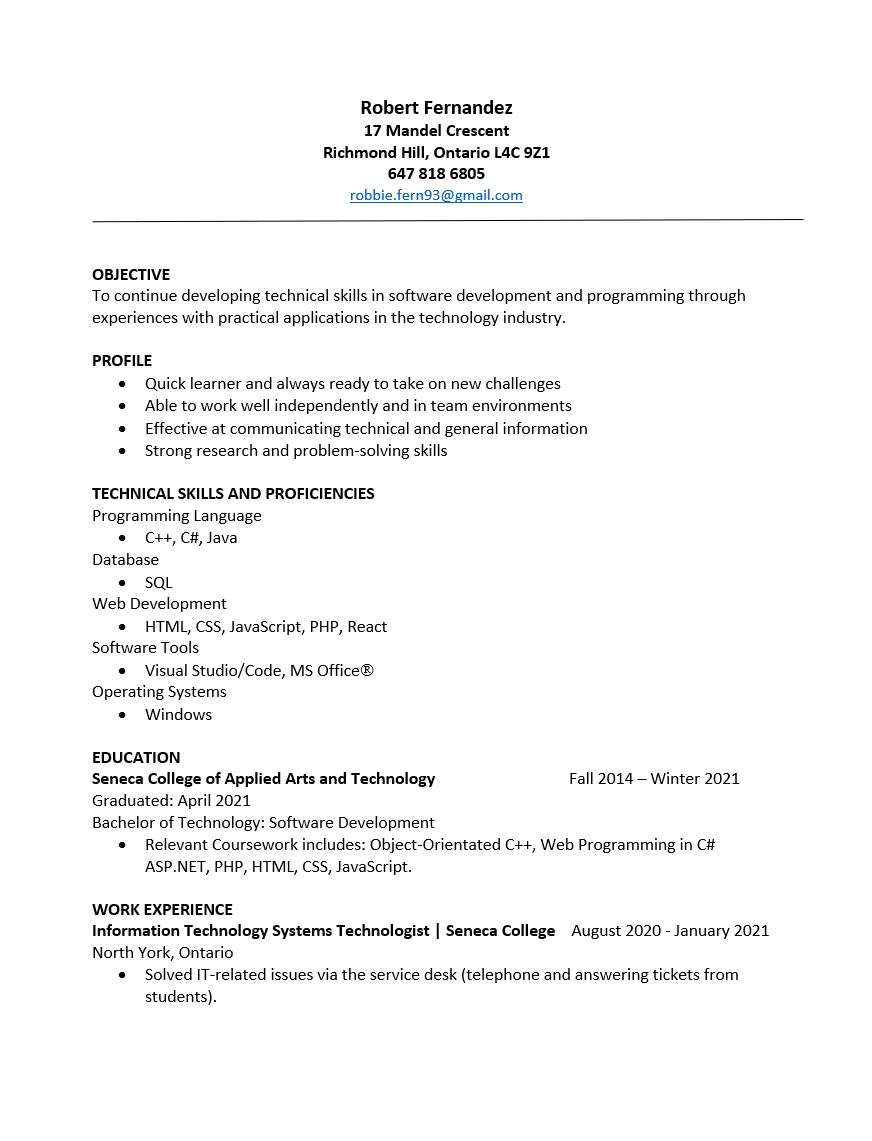
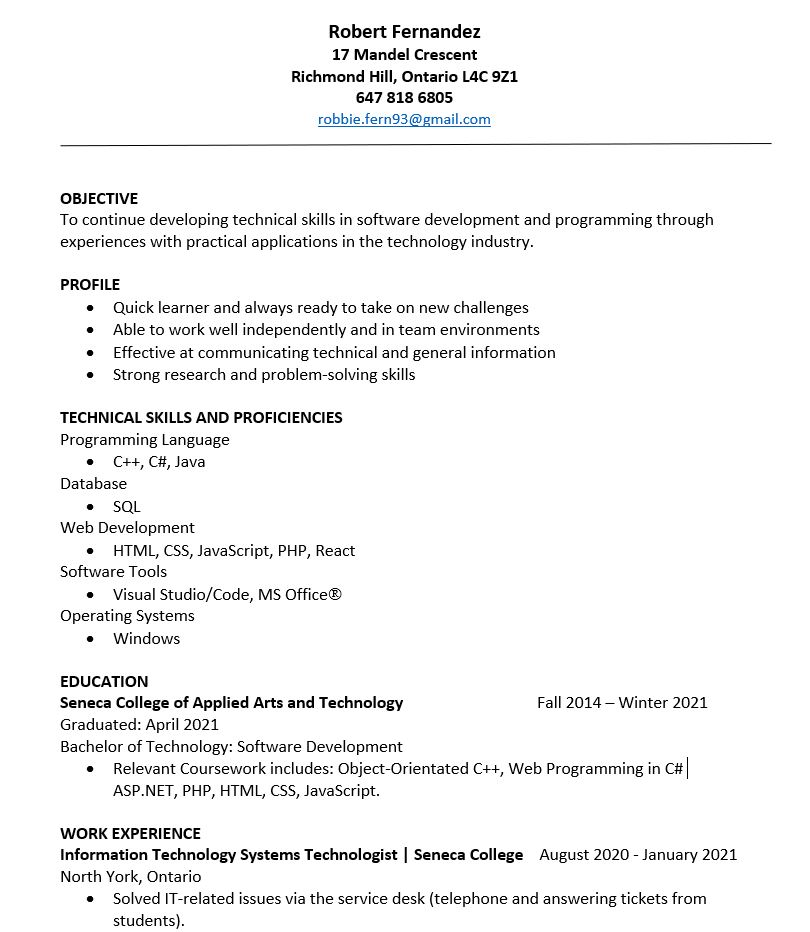
css changes, fixed image placement

diff --git a/src/components/Contact.js b/src/components/Contact.js
@@ -2,9 +2,18 @@ function Contact() {
     return (
       <div id="contact">
         <h1>Contact</h1>
-        <span>Phone: </span>
-        <span>Email: </span>
-        <span>LinkedIn: </span>
+        <p>
+          <span>Phone: </span>
+          <span>(647) 818 6805</span>
+        </p>
+        <p>
+          <span>Email: </span>
+          <span>robbie.fern93@gmail.com</span>
+        </p>
+        <p>
+          <span>LinkedIn:</span>
+          <span><a href="https://www.linkedin.com/in/robert-fernandez-4379a215b/">Robert Fernandez</a></span>
+        </p>
       </div>
     );
   }

diff --git a/src/components/About.js b/src/components/About.js
@@ -1,6 +1,8 @@
+import './About.css';
+
 function About() {
     return (
-      <div id="about">
+      <div id="about" class="content">
         <h1>About</h1>
         <span>My name is Robert Fernandez. I am a graduate of the Software Development Program from Seneca College.</span>
         <span> I built this website as a project to test some of my skils as web developer. I used ReactJS to create the website. I plan to continue to update the website as I improve my skills.</span>

diff --git a/src/components/Resume.js b/src/components/Resume.js
@@ -1,11 +1,12 @@
 import r1 from '../images/resume1.JPG';
 import r2 from '../images/resume2.JPG';
+import './Resume.css'
 
 function Resume() {
     return (
-      <div id="resume">
+      <div id="resume" class="content">
         <h1>Resume</h1>
-        <p>Download link coming soon</p>
+        <span>Download link coming soon</span>
         <img src={r1} alt="resume pg1"/>
         <img src={r2} alt="resume pg2"/>
       </div>

diff --git a/src/index.css b/src/index.css
@@ -1,0 +1,14 @@
+@import url('https://fonts.googleapis.com/css2?family=Teko:wght@300;400;700&display=swap');
+
+.content {
+    font-family: 'Teko', sans-serif;
+    text-align: center;
+    padding-top: 80px;
+    margin-bottom: 30px;
+    margin-left: 100px;
+    margin-right: 100px;
+}
+
+.content span {
+    font-size: 20px;
+}

diff --git a/src/index.js b/src/index.js
@@ -12,11 +12,13 @@ import './index.css';
 ReactDOM.render(
   <React.StrictMode>
       <NavBar />
+    <div class="content">
       <Header />
       <About />
       <Projects />
       <Resume />
       <Contact />
+    </div>
   </React.StrictMode>,
   document.getElementById("root")
 );

diff --git a/src/components/Projects.js b/src/components/Projects.js
@@ -1,6 +1,8 @@
+import './Projects.css';
+
 function Projects() {
     return (
-      <div id="projects">
+      <div id="projects" class="content">
         <h1>Projects</h1>
         <h4>This website</h4>
         <a href="https://github.com/Ribblez/MyWebsite">Link to Github</a>

diff --git a/src/components/Header.js b/src/components/Header.js
@@ -2,7 +2,7 @@ import './Header.css'
 
 function Header() {
   return (
-    <header>
+    <header id="home">
       <h1>Hello! My name is Robert Fernandez.</h1>
       <h1>Welcome to my website!</h1>
     </header>

diff --git a/src/components/NavBar.css b/src/components/NavBar.css
@@ -1,4 +1,6 @@
 ul {
+    font-family: 'Teko', sans-serif;
+    font-size: 40px;
     list-style-type: none;
     padding : 10px 10px;
     position: fixed;

diff --git a/src/components/Resume.css b/src/components/Resume.css
@@ -1,0 +1,6 @@
+img {
+    display: block;
+    margin-left: auto;
+    margin-right: auto;
+    width: 40%;
+}

diff --git a/src/components/NavBar.js b/src/components/NavBar.js
@@ -1,4 +1,5 @@
 import './NavBar.css';
+import '../index.css';
 
 function NavBar() {
   return (
